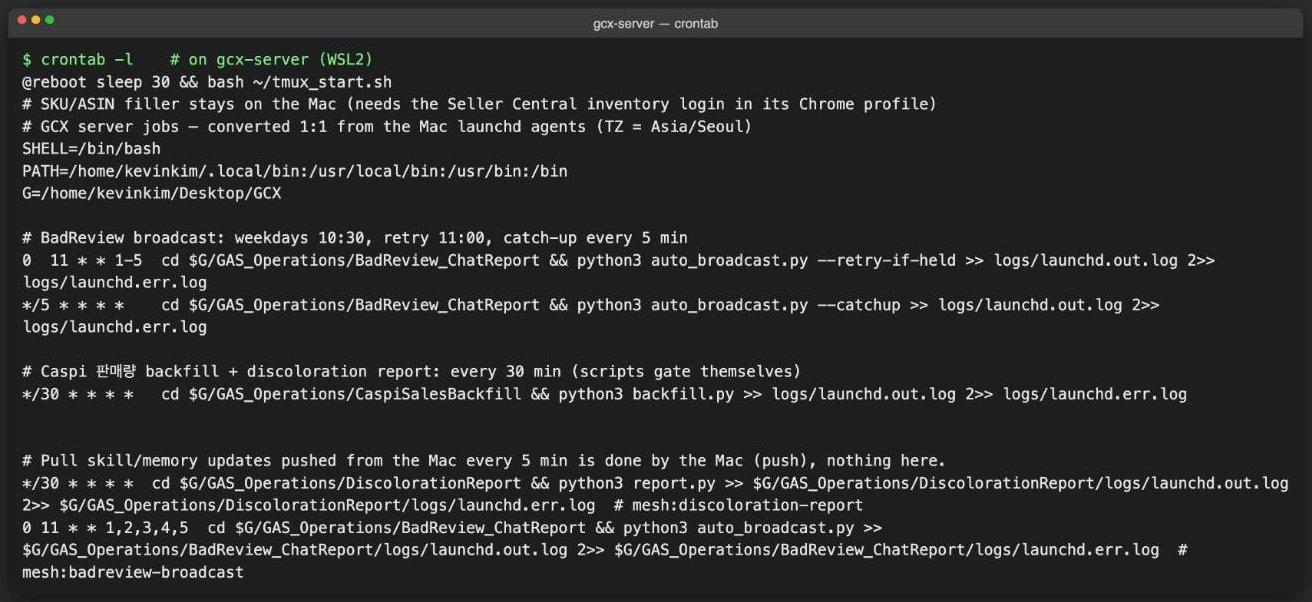
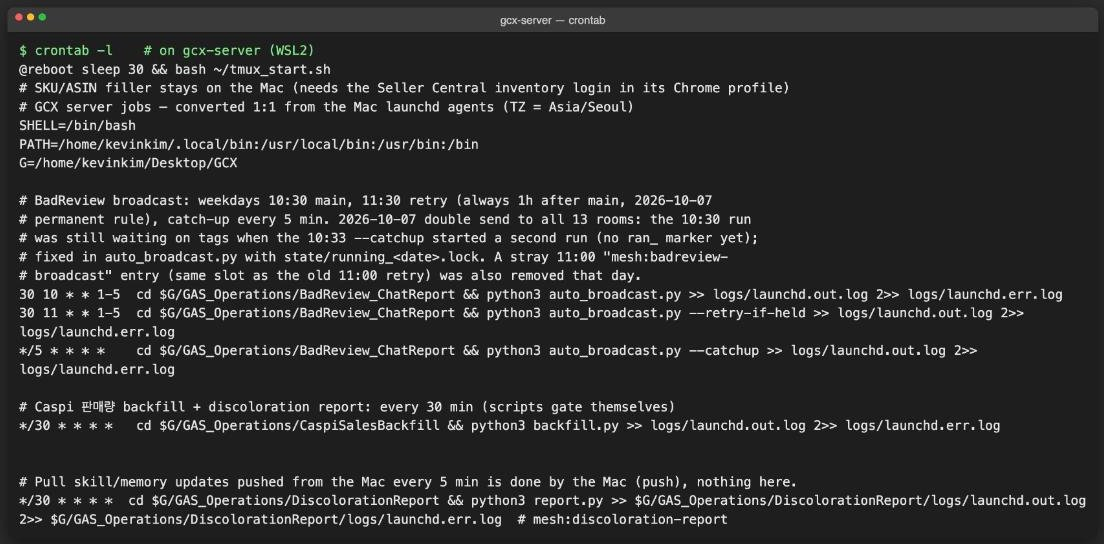
fix: badreview double-send race, iPhone18 product task, stale clasp configs
- auto_broadcast.py: every real run holds state/running_<date>.lock (stale
  after 90 min); --catchup / --retry-if-held / manual runs skip while it is
  held. 2026-10-07: the 10:30 run waited 15 min on tags, the 10:33 catch-up
  saw no ran_ marker and sent the carousel to all 13 rooms a second time.
- iPhone18_Apify Products.js: own Apify task ykXQsQhtYUOgTYv3G
  (product-details-scraper-iphone18, 253 lineup ASINs x 8 marketplaces)
  instead of GlxZ8's w3jI45UjmyFLwVHek. clasp-pushed.
- APIFY_Axesso: .clasp.json -> .clasp.json.disabled (same scriptId as the
  live MasterTrigger project); TriggerAlert's local copy disabled likewise.
- ServerBootstrap/crontab.txt synced with the live server crontab (10:30
  main / 11:30 retry); comment now names the real cause; screenshot redone.

Claude-Session: https://claude.ai/code/session_01KfmKJaWk7KhH7DfiUVLBvs

Changed region(s): [[0.0, 0.0312, 0.9855, 0.6875], [0.0, 0.7188, 0.9855, 0.9688], [0.4312, 0.0312, 0.5543, 0.0625]]

diff --git a/GAS_ReviewAutomation/Apify/iPhone18_Apify/Products.js b/GAS_ReviewAutomation/Apify/iPhone18_Apify/Products.js
@@ -2,7 +2,7 @@
  * PRODUCT CONFIG (NO CONFIG REFERENCES HERE)
  **********************************************************/
 const PRODUCT = {
-  taskIdOrSlug: 'w3jI45UjmyFLwVHek',
+  taskIdOrSlug: 'ykXQsQhtYUOgTYv3G',   // product-details-scraper-iphone18 (was the Z8 task w3jI45UjmyFLwVHek until 2026-10-07)
   sheetBaseName: 'Product'
 };
 

diff --git a/GAS_Operations/BadReview_ChatReport/auto_broadcast.py b/GAS_Operations/BadReview_ChatReport/auto_broadcast.py
@@ -55,6 +55,29 @@ def ran_marker_path(today):
     10:30 run (or an earlier catchup attempt) has already happened today."""
     return os.path.join(STATE_DIR, f"ran_{today.isoformat()}.flag")
 
+
+RUN_LOCK_STALE_S = 90 * 60  # a real run takes ≤ ~45 min (3 × 10-min tag retries + fetch)
+
+
+def take_run_lock(today):
+    """2026-10-07: the 10:30 run spent 15 min waiting for tags, the ran_ marker is only
+    written at the end, so the 10:33 --catchup saw "no run today" and sent a second
+    carousel to all 13 rooms. Every real run now holds state/running_<date>.lock for
+    its whole lifetime; any other real run (catchup, retry, a manual one) skips while
+    it's fresh. Returns False if another run holds it."""
+    import atexit
+    os.makedirs(STATE_DIR, exist_ok=True)
+    lock = os.path.join(STATE_DIR, f"running_{today.isoformat()}.lock")
+    try:
+        os.close(os.open(lock, os.O_CREAT | os.O_EXCL | os.O_WRONLY))
+    except FileExistsError:
+        age = time.time() - os.path.getmtime(lock)
+        if age < RUN_LOCK_STALE_S:
+            return False
+        os.utime(lock)  # left behind by a killed run — take it over
+    atexit.register(lambda: os.path.exists(lock) and os.remove(lock))
+    return True
+
 SHEETS = {
     "pixel11":  "12I6z_FFmDIMHa0rLanltKKFp7kI_yREQj3adkMamPgI",
     "glxz8":    "19OhswglYMx_dxSFFDtWI1WYPWq2jONJn6RK84KITwy4",
@@ -266,6 +289,13 @@ def main():
             return
         log(f"RETRY {today.isoformat()}: 10:30 run held the carousel — retrying now, "
             f"will send unconditionally regardless of today's KR count")
+
+    if not (a.dry_run or a.test_only):
+        if not take_run_lock(today):
+            log(f"SKIP {today.isoformat()}: another run is in progress (state/running_{today.isoformat()}.lock)")
+            return
+        if a.catchup and os.path.exists(ran_marker_path(today)):
+            return  # re-checked under the lock: a run finished while this one was starting
 
     log(f"RUN {today.isoformat()}: fetching sheets")
     token = refresh_gws_token()

diff --git a/GAS_Operations/BadReview_ChatReport/README.md b/GAS_Operations/BadReview_ChatReport/README.md
@@ -32,7 +32,7 @@ The scheduled jobs moved to the 24/7 **GCX server** (`gcx-server`, WSL2) crontab
 
 ```
 30 10 * * 1-5  python3 auto_broadcast.py                 # main run
-0  11 * * 1-5  python3 auto_broadcast.py --retry-if-held # Z8 KR-gate hard deadline
+30 11 * * 1-5  python3 auto_broadcast.py --retry-if-held # Z8 KR-gate deadline (main + 1 h)
 */5 * * * *    python3 auto_broadcast.py --catchup        # missed-trigger catch-up
 ```
 
@@ -78,10 +78,11 @@ Full detail in [`AUTO_BROADCAST.md`](AUTO_BROADCAST.md).
   every 10 min, up to 3 times, then sends anyway (2026-09-18).
 - **Z8 KR gate** (2026-09-18): 0 `국가(tag)=KR` rows in today's Z8 data → the whole
   carousel is held, an alert + preview goes to the private test room only, and
-  `state/held_<date>.flag` is written. The **11:00 `--retry-if-held`** run then sends
+  `state/held_<date>.flag` is written. The **11:30 (main + 1 h) `--retry-if-held`** run then sends
   unconditionally (2026-10-01).
 - **`--catchup`** (2026-10-02): every 5 min, weekdays 10:30–18:00, runs the normal flow
   if `state/ran_<date>.flag` is missing (machine was asleep at 10:30).
+- **Run lock** (2026-10-07): every real run holds `state/running_<date>.lock` while it works (stale after 90 min). Any other real run that starts meanwhile — `--catchup`, `--retry-if-held` or a manual one — logs `SKIP … another run is in progress` and exits. Added after the 10:30 run (15 min waiting on tags) and the 10:33 catch-up both sent the carousel to all 13 rooms on 2026-10-07.
 - Room list (13 rooms, incl. `GCX전략 Spigen x TCK` added 2026-09-29) and the test room
   come from `~/.claude/skills/badreview-chat-broadcast/broadcast.py`.
 

diff --git a/GAS_Operations/TriggerAlert/README.md b/GAS_Operations/TriggerAlert/README.md
@@ -1,6 +1,6 @@
 # TriggerAlert
 
-⚠ **Legacy / do-not-push folder.** Despite the name, this project contains no trigger-alerting logic — `Code.js` is an **older copy of the Monday.com → Sheet sync** template (board `7606389164`), and its `.clasp.json` points at the **same script ID as [ASIN_Master_MondaySync](../ASIN_Master_MondaySync/)** (`1WwwnwKuPbpdTGG6Uozx1Mr0AZU9mD_hc3UzHq82e_t-GjRe2eQ_4K-Fp`). Running `clasp push` here would overwrite the live ASIN_Master project and remove its ABM_Relay_Log cleanup and its stale run-lock fix. Make changes in `ASIN_Master_MondaySync/` (or `Monday_CX_Board/`) instead.
+⚠ **Legacy / do-not-push folder.** Despite the name, this project contains no trigger-alerting logic — `Code.js` is an **older copy of the Monday.com → Sheet sync** template (board `7606389164`), and its clasp config (renamed locally to `.clasp.json.disabled` on 2026-10-07 so `clasp push` now fails here; `.clasp.json` is gitignored) points at the **same script ID as [ASIN_Master_MondaySync](../ASIN_Master_MondaySync/)** (`1WwwnwKuPbpdTGG6Uozx1Mr0AZU9mD_hc3UzHq82e_t-GjRe2eQ_4K-Fp`). Running `clasp push` here would overwrite the live ASIN_Master project and remove its ABM_Relay_Log cleanup and its stale run-lock fix. Make changes in `ASIN_Master_MondaySync/` (or `Monday_CX_Board/`) instead.
 
 ---
 

diff --git a/GAS_ReviewAutomation/Apify/APIFY_Axesso/README.md b/GAS_ReviewAutomation/Apify/APIFY_Axesso/README.md
@@ -2,7 +2,7 @@
 
 Older copy of the Google Apps Script project that scrapes Amazon reviews via Apify/Axesso tasks and distributes them into the Spigen product monitoring spreadsheets. **It is superseded by [MasterTrigger](../../MasterTrigger/)** and kept only for reference/history — the code here was last changed on 2026-07-27 and has drifted from what is deployed.
 
-> ⚠ **Do not `clasp push` from this folder.** Its `.clasp.json` has the **same scriptId as MasterTrigger** (`1AWrX0Xl8feD-AzYRbGVBb9kLRQra2ppE547i_Ghys4lLU9l28pkMUf9O`), so a push here would overwrite the live `masterDailyJob` project with this stale code (re-enabling retired products, removing the pending-write retry, and reverting the AI columns to `=dr()` formulas).
+> ⚠ **Do not `clasp push` from this folder.** Its clasp config (renamed to `.clasp.json.disabled` on 2026-10-07 so `clasp push` now fails here) has the **same scriptId as MasterTrigger** (`1AWrX0Xl8feD-AzYRbGVBb9kLRQra2ppE547i_Ghys4lLU9l28pkMUf9O`), so a push here would overwrite the live `masterDailyJob` project with this stale code (re-enabling retired products, removing the pending-write retry, and reverting the AI columns to `=dr()` formulas).
 
 **Source spreadsheet:** `SRC_ID = 1tMbA_msRfCRY0KK40GnyZ_h1uNCldlnk9Cg-_MTcbsw`
 

diff --git a/GAS_ReviewAutomation/Apify/iPhone18_Apify/README.md b/GAS_ReviewAutomation/Apify/iPhone18_Apify/README.md
@@ -55,7 +55,7 @@ Only the Product poller: every-1-minute trigger on `pollProductRunAndWrite`, sel
 
 ## Known issues
 
-- **`Products.js` still uses GlxZ8's product-details task** (`PRODUCT.taskIdOrSlug = 'w3jI45UjmyFLwVHek'`) — the same copy-paste leftover fixed for Pixel11 on 2026-08-10. "Run Product Now" will overwrite this book's `Product` tab with **Galaxy Z8** ASIN ratings/review counts until it is pointed at an iPhone 18 task.
+- **`Products.js` product task** — until 2026-10-07 it pointed at GlxZ8's product-details task (`w3jI45UjmyFLwVHek`, a copy-paste leftover), so "Run Product Now" would have filled this book's `Product` tab with Galaxy Z8 data. It now uses its own task **`ykXQsQhtYUOgTYv3G`** (`product-details-scraper-iphone18`: the 253 ASINs of the `신제품 라인업` tab × the 8 marketplaces, same layout as the Z8 task). Re-sync the task's `urls` input when the line-up changes.
 - Inherited from the template: `CHAT_WEBHOOK_URL` undefined (Product Chat post fails silently), dead `startApifyRunAndSchedulePoll()`, undefined `uiRunSummarize` / `uiRunDefectGPT` / `translateTextAuto`.
 
 ---

diff --git a/GAS_ReviewAutomation/README.md b/GAS_ReviewAutomation/README.md
@@ -24,7 +24,7 @@ Google Apps Script (and Apify Actor) projects that scrape Amazon reviews/ratings
 | [Glx26_Apify](Apify/Glx26_Apify/) | Galaxy S26 sheet: Product task poller, `=DR()`, Sheet → monday uploader (board 18399593191). |
 | [GlxZ8_Apify](Apify/GlxZ8_Apify/) | Galaxy Z8 sheet: same template + `DefectDefsPatch.js` for the shared 인입사유 definitions (board 18421346787). |
 | [Pixel11_Apify](Apify/Pixel11_Apify/) | Pixel 11 port of the GlxZ8 template (board 18425190666); never runtime-verified. |
-| [iPhone18_Apify](Apify/iPhone18_Apify/) | iPhone 18 port of the GlxZ8 template (board 18430082360); Product task still points at the Z8 task. |
+| [iPhone18_Apify](Apify/iPhone18_Apify/) | iPhone 18 port of the GlxZ8 template (board 18430082360); own Product task `ykXQsQhtYUOgTYv3G` since 2026-10-07. |
 | [iPh17e_Apify](Apify/iPh17e_Apify/) | iPhone 17e per-product Apify review/product trigger. |
 | [iPh17e_Monday](Apify/iPh17e_Monday/) | iPhone 17e Sheet → monday uploader (board 18419272697) + `=DR()`. |
 | [Pixel10a_Apify](Apify/Pixel10a_Apify/) | Pixel 10a Product task + `=DR()`. |

diff --git a/GAS_Operations/BadReview_ChatReport/AUTO_BROADCAST.md b/GAS_Operations/BadReview_ChatReport/AUTO_BROADCAST.md
@@ -131,6 +131,10 @@ both sides at once** — that caused a real duplicate send to all 13 live rooms 
     00:09 AM through past 10:30 AM — no `RUN` log line existed for that day at all
     until a manual run.
 
+### Run lock (2026-10-07)
+
+**Run lock** (2026-10-07): every real run holds `state/running_<date>.lock` while it works (stale after 90 min). Any other real run that starts meanwhile — `--catchup`, `--retry-if-held` or a manual one — logs `SKIP … another run is in progress` and exits. Added after the 10:30 run (15 min waiting on tags) and the 10:33 catch-up both sent the carousel to all 13 rooms on 2026-10-07.
+
 ## Testing — NEVER a bare live run
 
 **Rule (2026-09-21, permanent): when testing anything in this script, always pass
